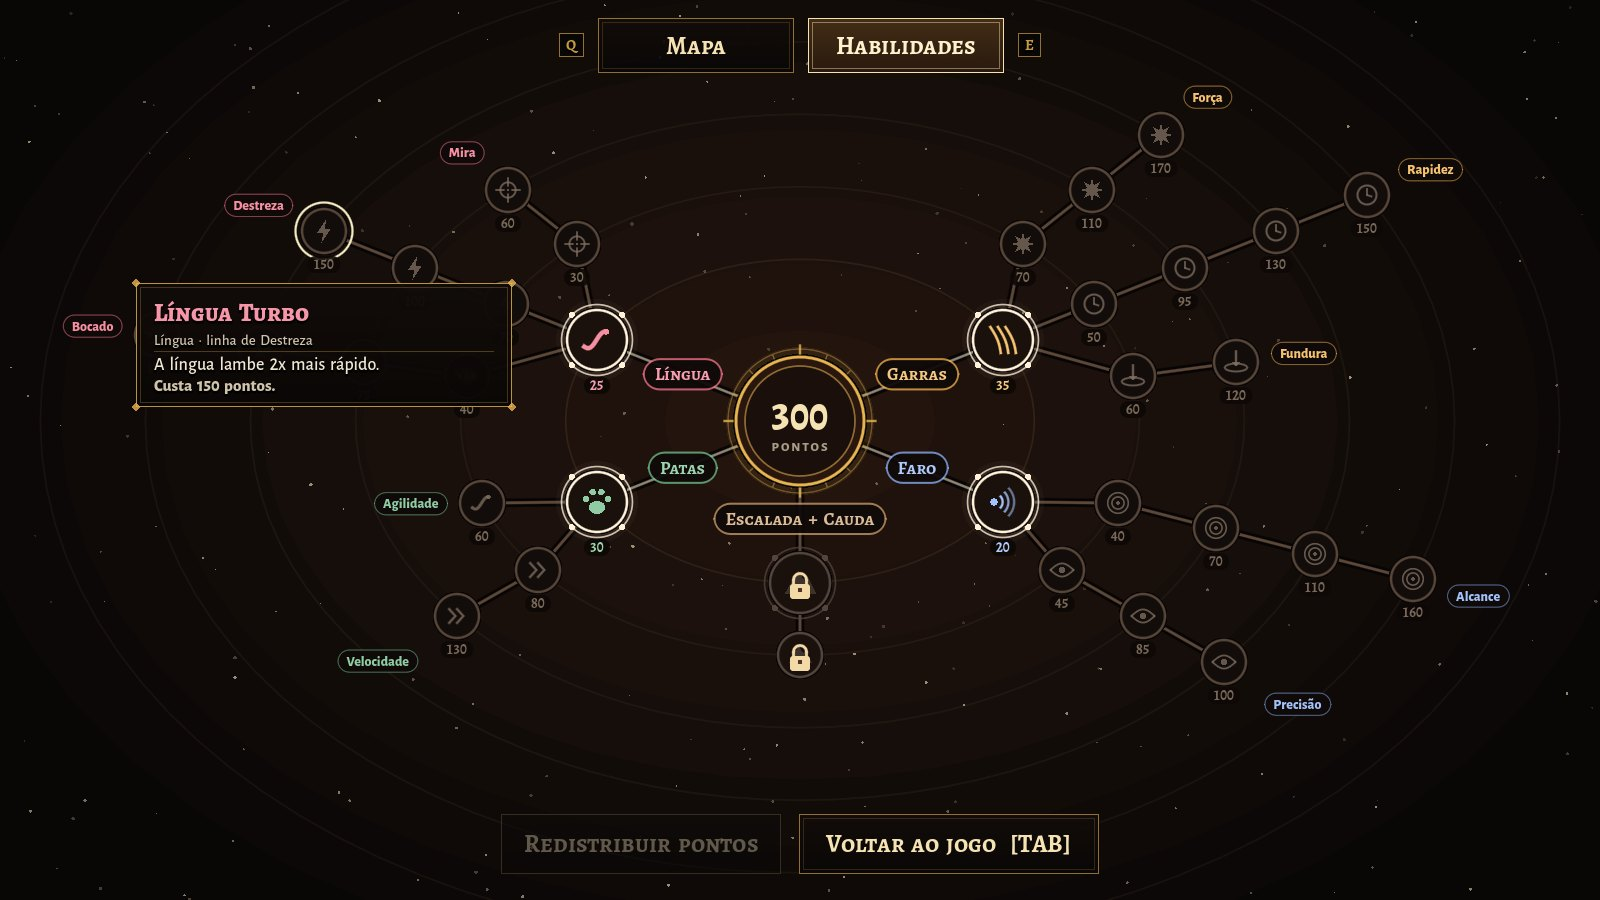
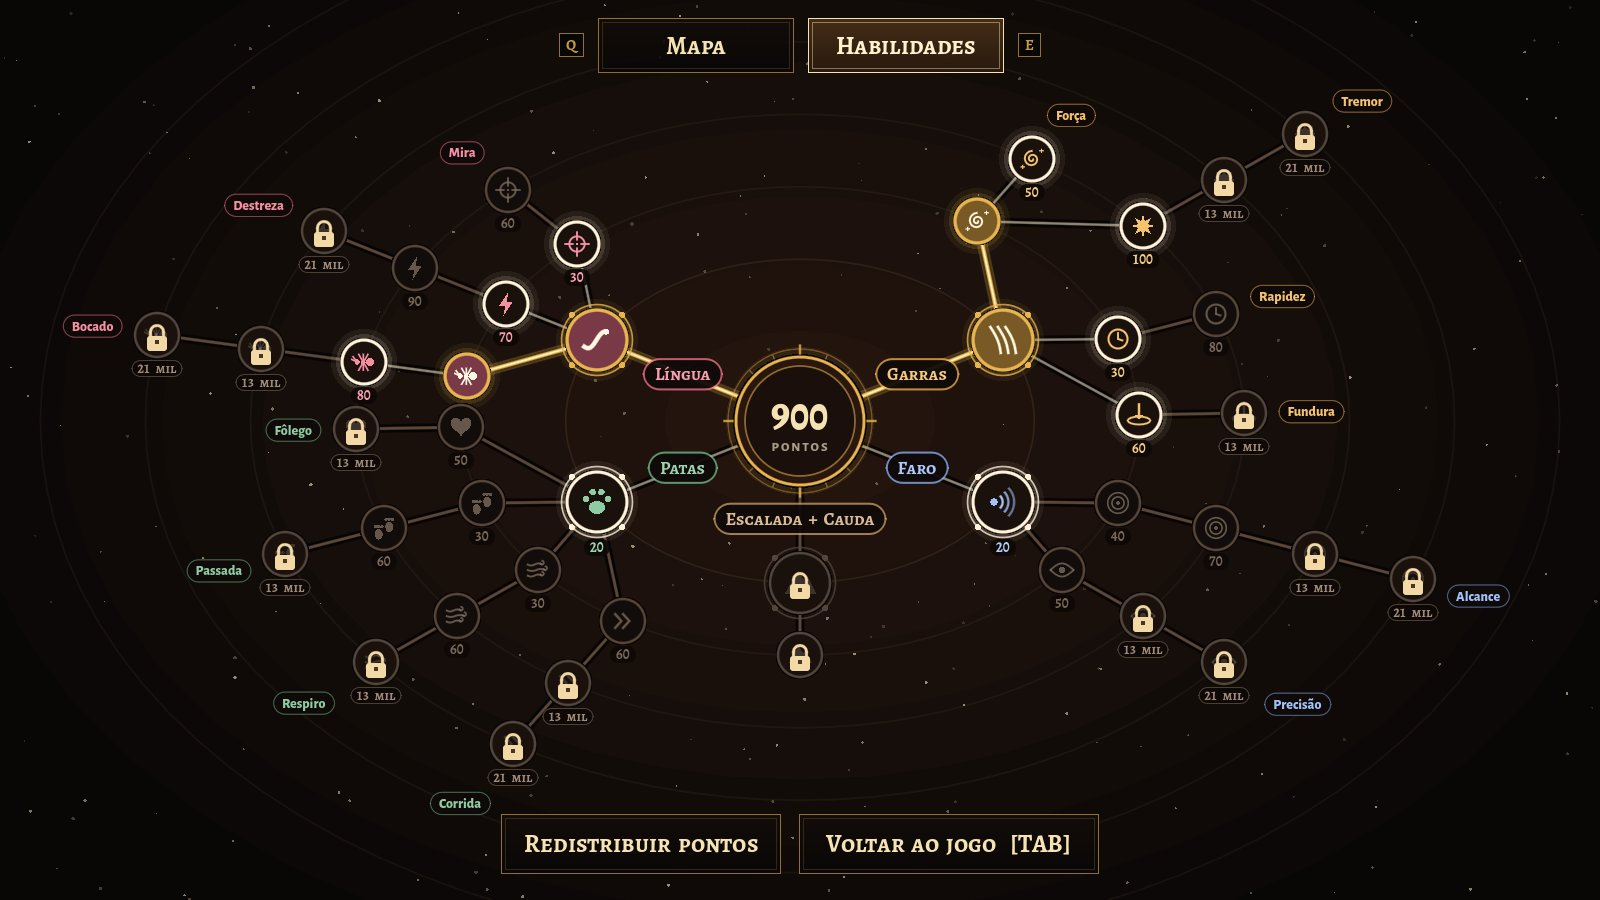
Travas por insetos comidos, preços novos e linha do Tremor
Cada habilidade (menos o começo de cada ramo) só abre depois de comer
1 000, 3 000, 8 000, 13 000 ou 21 000 insetos. Na árvore aparece com
cadeado e "8 mil" embaixo, e um cartão avisa quando uma trava abre.
Os preços foram refeitos para que, comprando de tudo um pouco, o jogador
termine de pagar uma faixa bem quando a seguinte abre (3 825 pontos, 87%).
O Tremor virou uma linha que sai de Força nível 1 (o nível 3 é o
Terremoto); Força ganhou o nível 2 e Rapidez ficou com 2 níveis.

Claude-Session: https://claude.ai/code/session_01PK3zBhGKGNdhTPcPbN78xy

diff --git a/docs/DESIGN.md b/docs/DESIGN.md
@@ -102,11 +102,10 @@ buscamos, no espírito delas:
   chão, com as câmaras da demo. Os cupinzeiros aparecem apenas como cenário.
 - **44 000 insetos** (eram 1000, depois 3200, depois 32 000), cada um andando
   sozinho: **10 insetos comidos = 1 ponto**, 4 400 pontos no jogo inteiro. A
-  árvore de hoje (já com a estamina) custa **3215 pontos** (73%); os preços
-  novos da reformulação ([`pesquisa-habilidades.md`](pesquisa-habilidades.md),
-  seção 6) vão usar quase todos.
-- **Por enquanto as habilidades ficam como estão.** A pontuação e a quantidade
-  de formigas e cupins para liberar tudo serão reavaliadas mais para a frente.
+  árvore custa **3 825 pontos** (87%), e cada habilidade tem uma **trava**: só
+  abre depois de comer 1 000, 3 000, 8 000, 13 000 ou 21 000 insetos (o começo
+  de cada ramo abre já). As contas estão em
+  [`pesquisa-habilidades.md`](pesquisa-habilidades.md), seção 7.
 
 ### O mapa: 4 áreas (esboço de 02/11/2026)
 
@@ -211,24 +210,25 @@ faz aparecem ao passar o mouse (ou o controle). Ela **não abre sozinha**: quand
 dá para aprender algo, um selo no canto da tela mostra quantas (◆ 2 **Tab**). O
 **TAB** abre primeiro o **mapa**; a árvore fica na aba ao lado.
 
-| Habilidade | Linha | Níveis (preço em pontos) |
+| Habilidade | Linha | Níveis (preço · trava em insetos comidos) |
 |---|---|---|
 | **Língua** | começo | Lambida Contínua (25: segurar para lamber) |
-| | Bocado | nível 1 (40: até 50 insetos por lambida) · nível 2 (75: até 150) · nível 3 (115: até 250) · nível 4 (170: até 400) |
-| | Destreza | nível 1 (70: +50% de alcance) · nível 2 (100: gruda num raio 70% maior) · nível 3 (150: 2x mais rápida) |
-| | Mira | nível 1 (30: a língua vai atrás do inseto mais perto da mira; sem ela, vai reta) · nível 2 (60: essa área fica 25% maior) |
+| | Bocado | nível 1 (40 · 1 mil: até 50 insetos por lambida) · nível 2 (80 · 3 mil: até 150) · nível 3 (120 · 13 mil: até 250) · nível 4 (320 · 21 mil: até 400) |
+| | Destreza | nível 1 (70 · 3 mil: +50% de alcance) · nível 2 (90 · 8 mil: gruda num raio 70% maior) · nível 3 (300 · 21 mil: 2x mais rápida) |
+| | Mira | nível 1 (30 · 1 mil: a língua vai atrás do inseto mais perto da mira; sem ela, vai reta) · nível 2 (60 · 3 mil: essa área fica 25% maior) |
 | **Garras** | começo | Cavar (35: abre as câmaras pequenas; depois as garras descansam 25 s) |
-| | Força | nível 1 (70: as moradoras ficam tontas ao abrir) · nível 2 (110: libera o Tremor, pulo com pancada; recarga de 21 s) · nível 3 (170: Terremoto: pulo mais alto, tremor maior, puxa as tontas) |
-| | Rapidez | nível 1 (50: descanso de 15 s) · nível 2 (95: descanso de 5 s e cava na metade do tempo) · nível 3 (130: Tremor em 14 s) · nível 4 (150: Tremor em 7 s) |
-| | Fundura | nível 1 (60: abre as câmaras grandes) · nível 2 (120: desmancha o monte da rainha) |
+| | Força | nível 1 (55 · 3 mil: as moradoras ficam tontas por 2,5 s ao abrir) · nível 2 (50 · 8 mil: tontas por 4 s) |
+| | Tremor (sai de Força nível 1) | nível 1 (100 · 8 mil: libera o Tremor, pulo com pancada; recarga de 21 s) · nível 2 (100 · 13 mil: recarga de 14 s) · nível 3 (330 · 21 mil: Terremoto: pulo mais alto, tremor maior, puxa as tontas, recarga de 7 s) |
+| | Rapidez | nível 1 (30 · 1 mil: descanso de 15 s) · nível 2 (80 · 8 mil: descanso de 5 s e cava na metade do tempo) |
+| | Fundura | nível 1 (60 · 3 mil: abre as câmaras grandes) · nível 2 (120 · 13 mil: desmancha o monte da rainha) |
 | **Patas** | começo | Fôlego nível 1 (20: estamina máxima de 50 para 100). Correr existe desde o começo (+25% de velocidade; correndo não dá para lamber) |
-| | Corrida | nível 1 (70: +50% sobre andar) · nível 2 (80: lamber correndo) · nível 3 (120: correr não assusta) |
-| | Respiro | níveis 1 a 3 (25, 50, 90): a estamina volta 3 → 4,5 → 6 → 7 por segundo |
-| | Passada | níveis 1 a 3 (25, 50, 90): correndo gasta 10 → 8 → 6,5 → 5 por segundo |
-| | Fôlego | nível 2 (50: estamina máxima 150) · nível 3 (90: 200) |
+| | Corrida | nível 1 (60 · 3 mil: +50% sobre andar) · nível 2 (90 · 13 mil: lamber correndo) · nível 3 (250 · 21 mil: correr não assusta) |
+| | Respiro | níveis 1 a 3 (30 · 1 mil, 60 · 8 mil, 70 · 13 mil): a estamina volta 3 → 4,5 → 6 → 7 por segundo |
+| | Passada | níveis 1 a 3 (30 · 1 mil, 60 · 8 mil, 70 · 13 mil): correndo gasta 10 → 8 → 6,5 → 5 por segundo |
+| | Fôlego | nível 2 (50 · 3 mil: estamina máxima 150) · nível 3 (80 · 13 mil: 200) |
 | **Faro** | começo | Farejar (20: diz quantas formigas há a até 10 m, até 100 delas, e a distância da mais perto) |
-| | Alcance | nível 1 (40: 16 m, 250 formigas) · nível 2 (70: 24 m, 500) · nível 3 (110: 34 m, 1000, e quanto falta em cada formigueiro) · nível 4 (160: 50 m, 2000, e as rainhas). Cada nível também recarrega mais rápido (10 s → 6 s) |
-| | Precisão | nível 1 (45: nuvem borrada onde estão) · nível 2 (85: as formigas brilham nítidas) · nível 3 (100: colunas de cheiro nas câmaras fechadas) |
+| | Alcance | nível 1 (40 · 1 mil: 16 m, 250 formigas) · nível 2 (70 · 8 mil: 24 m, 500) · nível 3 (100 · 13 mil: 34 m, 1000, e quanto falta em cada formigueiro) · nível 4 (260 · 21 mil: 50 m, 2000, e as rainhas). Cada nível também recarrega mais rápido (10 s → 6 s) |
+| | Precisão | nível 1 (50 · 3 mil: nuvem borrada onde estão) · nível 2 (80 · 13 mil: as formigas brilham nítidas) · nível 3 (240 · 21 mil: colunas de cheiro nas câmaras fechadas) |
 | **Escalada + Cauda** | | Escalada (300) · Cauda Preênsil (400): ainda não feitas, aparecem com cadeado |
 
 **Habilidades por região:** a **Escalada + Cauda** aparece na árvore desde o
@@ -371,11 +371,9 @@ Ainda a ajustar:
 - **Economia das habilidades:** a pesquisa de 05/11/2026
   ([`pesquisa-habilidades.md`](pesquisa-habilidades.md)) mediu com o bot o
   tempo de cada compra (seção 5): o bot limpa a clareira em 81–84 minutos, com
-  uma hora de ritmo parado e uma explosão nos últimos 15 minutos. A proposta
-  de reformulação (seção 6) trouxe a estamina (já feita); falta a
-  trava por insetos comidos em cada nível (1 000, 3 000, 8 000 e 21 000),
-  Tremor e rainha mais cedo e pontas mais caras (em vez de 1 ponto a cada 8
-  insetos, a clareira passou para 44 000).
+  uma hora de ritmo parado e uma explosão nos últimos 15 minutos. A
+  reformulação já foi feita (estamina, travas, preços novos, Tremor e rainha
+  mais cedo), mas o bot ainda não rodou com ela: o ritmo novo falta medir.
 
 ---
 
@@ -635,4 +633,6 @@ andar entre ninhos, habilidades e jogo salvo) e boa parte da M3 (o Cerrado com
 | 05/11/2026 | Quantidade de insetos | 32 000 (3 200 pontos) | 44 000 (4 400 pontos), para caber a árvore nova com estamina; jogos salvos antigos não carregam mais |
 | 05/11/2026 | Correr | Só depois da habilidade Corrida (30), sem limite | Desde o começo, com estamina (barra no canto de baixo, à esquerda): começa com 50, gasta 10/s, volta 3/s 1 s depois de parar. Se zerar, volta a correr com 15%. A habilidade Corrida saiu; Patas ganhou as linhas Respiro, Passada e Fôlego |
 | 05/11/2026 | Nomes das habilidades | Um nome para cada nível (Lambida Larga, Garras Ágeis, Faro Apurado...) | Linha + nível (Bocado nível 2, Rapidez nível 1, Alcance nível 2); só o começo de cada ramo tem nome (Lambida Contínua, Cavar, Fôlego nível 1, Farejar) |
+| 05/11/2026 | Travas e preços | Tudo aberto desde o começo; árvore de 3 215 pontos | Cinco travas por insetos comidos (1 000, 3 000, 8 000, 13 000, 21 000), com cadeado e "8 mil" na árvore e um aviso quando abrem; árvore de 3 825 pontos (87%), com as pontas mais fortes em 21 000 |
+| 05/11/2026 | Tremor | Força nível 2; a recarga ficava na Rapidez | Linha própria, saindo de Força nível 1 (Tremor 1 a 3, o 3 é o Terremoto); Força ganhou nível 2 (tontas por 4 s); Rapidez ficou com 2 níveis |
 | 05/11/2026 | Desempenho | Cada camada de detalhe montava o grupo inteiro | Separação por distância, camada extra de longe e sombra simples (33,5 → 7,6 milhões de triângulos na mesma cena) |

diff --git a/README.md b/README.md
@@ -162,12 +162,16 @@ uma vez".
 
 ### Habilidades
 
-| Habilidade | Níveis (preço em pontos) |
+Entre parênteses: o preço em pontos e, depois do ponto, a **trava**: quantos
+insetos é preciso ter comido para a habilidade abrir (o começo de cada ramo não
+tem trava). Na árvore, ela aparece com cadeado e "8 mil" embaixo.
+
+| Habilidade | Níveis (preço · trava) |
 |---|---|
-| **Língua** | Lambida Contínua (25: segurar para lamber), e depois três linhas: **Bocado** · nível 1 (40: até 50 insetos por lambida) · nível 2 (75: até 150) · nível 3 (115: até 250) · nível 4 (170: até 400); **Destreza** · nível 1 (70: alcance +50% e lambe 25% mais rápido) · nível 2 (100: raio maior e mais 25% de rapidez) · nível 3 (150: 2x mais rápido); **Mira** · nível 1 (30: a língua vai atrás do inseto mais perto da mira) · nível 2 (60: essa área 25% maior) |
-| **Garras** | Cavar (35: câmaras pequenas; depois as garras descansam 25 s), e depois: **Força** · nível 1 (70: moradoras tontas) · nível 2 (110: libera o Tremor, recarga de 21 s) · nível 3 (170: Terremoto); **Rapidez** · nível 1 (50: descanso de 15 s) · nível 2 (95: 5 s) · nível 3 (130: Tremor em 14 s) · nível 4 (150: 7 s); **Fundura** · nível 1 (60: câmaras grandes) · nível 2 (120: desmancha o monte da rainha) |
-| **Patas** | Fôlego nível 1 (20: estamina máxima de 50 para 100), e depois quatro linhas: **Corrida** · nível 1 (70: +50% sobre andar, eram +25%) · nível 2 (80: lamber correndo) · nível 3 (120: correr não assusta); **Respiro** · níveis 1 a 3 (25, 50, 90): a estamina volta 3 → 4,5 → 6 → 7 por segundo; **Passada** · níveis 1 a 3 (25, 50, 90): correndo gasta 10 → 8 → 6,5 → 5 por segundo; **Fôlego** · nível 2 (50: 150) · nível 3 (90: 200) |
-| **Faro** | Farejar (20), e depois: **Alcance** · nível 1 (40: 16 m) · nível 2 (70: 24 m) · nível 3 (110: 34 m) · nível 4 (160: 50 m); **Precisão** · nível 1 (45: nuvem) · nível 2 (85: insetos brilhando) · nível 3 (100: câmaras) |
+| **Língua** | Lambida Contínua (25: segurar para lamber), e depois três linhas: **Bocado** · nível 1 (40 · 1 mil: até 50 insetos por lambida) · nível 2 (80 · 3 mil: até 150) · nível 3 (120 · 13 mil: até 250) · nível 4 (320 · 21 mil: até 400); **Destreza** · nível 1 (70 · 3 mil: alcance +50% e lambe 25% mais rápido) · nível 2 (90 · 8 mil: raio maior e mais 25% de rapidez) · nível 3 (300 · 21 mil: 2x mais rápido); **Mira** · nível 1 (30 · 1 mil: a língua vai atrás do inseto mais perto da mira) · nível 2 (60 · 3 mil: essa área 25% maior) |
+| **Garras** | Cavar (35: câmaras pequenas; depois as garras descansam 25 s), e depois: **Força** · nível 1 (55 · 3 mil: moradoras tontas por 2,5 s) · nível 2 (50 · 8 mil: 4 s); **Tremor** (sai de Força nível 1) · nível 1 (100 · 8 mil: libera o Tremor, recarga de 21 s) · nível 2 (100 · 13 mil: 14 s) · nível 3 (330 · 21 mil: Terremoto, 7 s); **Rapidez** · nível 1 (30 · 1 mil: descanso de 15 s) · nível 2 (80 · 8 mil: 5 s); **Fundura** · nível 1 (60 · 3 mil: câmaras grandes) · nível 2 (120 · 13 mil: desmancha o monte da rainha) |
+| **Patas** | Fôlego nível 1 (20: estamina máxima de 50 para 100), e depois quatro linhas: **Corrida** · nível 1 (60 · 3 mil: +50% sobre andar, eram +25%) · nível 2 (90 · 13 mil: lamber correndo) · nível 3 (250 · 21 mil: correr não assusta); **Respiro** · níveis 1 a 3 (30 · 1 mil, 60 · 8 mil, 70 · 13 mil): a estamina volta 3 → 4,5 → 6 → 7 por segundo; **Passada** · níveis 1 a 3 (30 · 1 mil, 60 · 8 mil, 70 · 13 mil): correndo gasta 10 → 8 → 6,5 → 5 por segundo; **Fôlego** · nível 2 (50 · 3 mil: 150) · nível 3 (80 · 13 mil: 200) |
+| **Faro** | Farejar (20), e depois: **Alcance** · nível 1 (40 · 1 mil: 16 m) · nível 2 (70 · 8 mil: 24 m) · nível 3 (100 · 13 mil: 34 m) · nível 4 (260 · 21 mil: 50 m); **Precisão** · nível 1 (50 · 3 mil: nuvem) · nível 2 (80 · 13 mil: insetos brilhando) · nível 3 (240 · 21 mil: câmaras) |
 | **Escalada + Cauda** | Escalada (300) · Cauda Preênsil (400): ainda não feitas (aparecem com cadeado) |
 
 **Estamina:** correr existe desde o começo, mas gasta a estamina, a barra verde
@@ -176,8 +180,11 @@ no canto de baixo, à esquerda (fica vermelho-escura quando acaba). Ela só volt
 15%. Começa com 50, gasta 10 por segundo e volta 3 por segundo.
 
 10 formigas comidas = 1 ponto (a rainha vale 20 pontos). As linhas de um ramo
-não se excluem. Tudo o que dá para aprender no Cerrado soma 3215 pontos (de 4 400 no jogo), e dá
-para redistribuir os pontos de graça na árvore.
+não se excluem. Tudo o que dá para aprender no Cerrado soma 3 825 pontos (de
+4 400 no jogo), e dá para redistribuir os pontos de graça na árvore. Os preços
+foram feitos para que, comprando de tudo um pouco, você termine de pagar o que
+uma trava abriu bem quando a seguinte abre (as contas estão em
+[`docs/pesquisa-habilidades.md`](docs/pesquisa-habilidades.md), seção 7).
 
 ### Tela e gráficos
 

diff --git a/docs/pesquisa-habilidades.md b/docs/pesquisa-habilidades.md
@@ -384,6 +384,48 @@ as últimas compras ainda saem juntas. Na árvore nova o Tremor e a rainha
 chegam antes, e isso deve acelerar o meio e suavizar o fim; só medindo para
 saber. **Depois de implementar, rodo o bot de novo** com a árvore nova.
 
+## 7. Árvore feita (05/11/2026): travas e preços
+
+Decidido com o Caio, depois das contas acima:
+
+- **Cinco travas**, em insetos comidos: **1 000, 3 000, 8 000, 13 000 e
+  21 000** (números de Fibonacci; cada um cerca de 1,6 a 2,6 vezes o
+  anterior). O começo de cada ramo não tem trava. Cada habilidade tem a sua:
+  as linhas curtas e de apoio terminam até 13 000, e as pontas mais fortes
+  ficam para 21 000.
+- **O Tremor virou uma linha própria**, que sai de Força nível 1: Tremor
+  nível 1 (o pulo), nível 2 (recarga de 14 s) e nível 3 (Terremoto, recarga
+  de 7 s). Força ganhou um nível 2 (tontas por 4 s) e Rapidez ficou só com
+  o descanso das garras.
+
+**A regra dos preços.** Quem compra de tudo um pouco deve terminar de pagar o
+que uma trava abriu **bem quando a seguinte abre**. Ou seja, a soma dos preços
+de tudo o que já abriu é igual aos pontos ganhos até a próxima trava (10
+insetos = 1 ponto). Assim a trava quase nunca segura quem compra equilibrado,
+mas segura quem gasta tudo numa linha só. Dentro de cada faixa, o preço segue
+a conta "pontos por minuto × minutos até a próxima compra", mirando uma
+compra a cada 1,5 a 2 minutos.
+
+| Trava | Habilidades que abrem | Soma dos preços | Soma até aqui | Pontos ao abrir a próxima | Minuto aproximado* |
+|---|---|---|---|---|---|
+| começo | Lambida Contínua 25 · Cavar 35 · Fôlego 1 20 · Farejar 20 | 100 | 100 | 100 | 0 |
+| 1 000 | Bocado 1 40 · Mira 1 30 · Rapidez 1 30 · Respiro 1 30 · Passada 1 30 · Alcance 1 40 | 200 | 300 | 300 | 7 |
+| 3 000 | Bocado 2 80 · Destreza 1 70 · Mira 2 60 · Força 1 55 · Fundura 1 60 · Corrida 1 60 · Fôlego 2 50 · Precisão 1 50 | 485 | 785 | 800 | 17 |
+| 8 000 | Destreza 2 90 · Força 2 50 · **Tremor 1 100** · Rapidez 2 80 · Respiro 2 60 · Passada 2 60 · Alcance 2 70 | 510 | 1 295 | 1 300 | 33 |
+| 13 000 | Bocado 3 120 · Tremor 2 100 · **Fundura 2 (rainha) 120** · Corrida 2 90 · Respiro 3 70 · Passada 3 70 · Fôlego 3 80 · Alcance 3 100 · Precisão 2 80 | 830 | 2 125 | 2 100 | 48 |
+| 21 000 | Bocado 4 320 · Destreza 3 300 · Tremor 3 330 · Corrida 3 250 · Alcance 4 260 · Precisão 3 240 | 1 700 | 3 825 | 4 400 (fim) | 66 |
+
+\* Pela curva do bot antigo, ajustada para 44 000 insetos. A árvore nova
+deve mudar essa curva (o Tremor chega perto dos 33 minutos, antes 61, e a
+rainha perto dos 48, antes 68), então os minutos são só um ponto de partida.
+
+As 40 habilidades custam **3 825 pontos (87% dos 4 400)**. Com as pontas a
+21 000, os últimos 1 700 pontos chegam por volta de 38 000 insetos: sobra
+um pedaço do fim para usar as habilidades mais fortes.
+
+**Ainda não medido:** o bot não rodou com a árvore nova (a pedido, para não
+gastar processamento). Os números vêm das contas acima e do teste do Caio.
+
 ## Fontes
 
 - Anthony Pecorella, "The Math of Idle Games",
